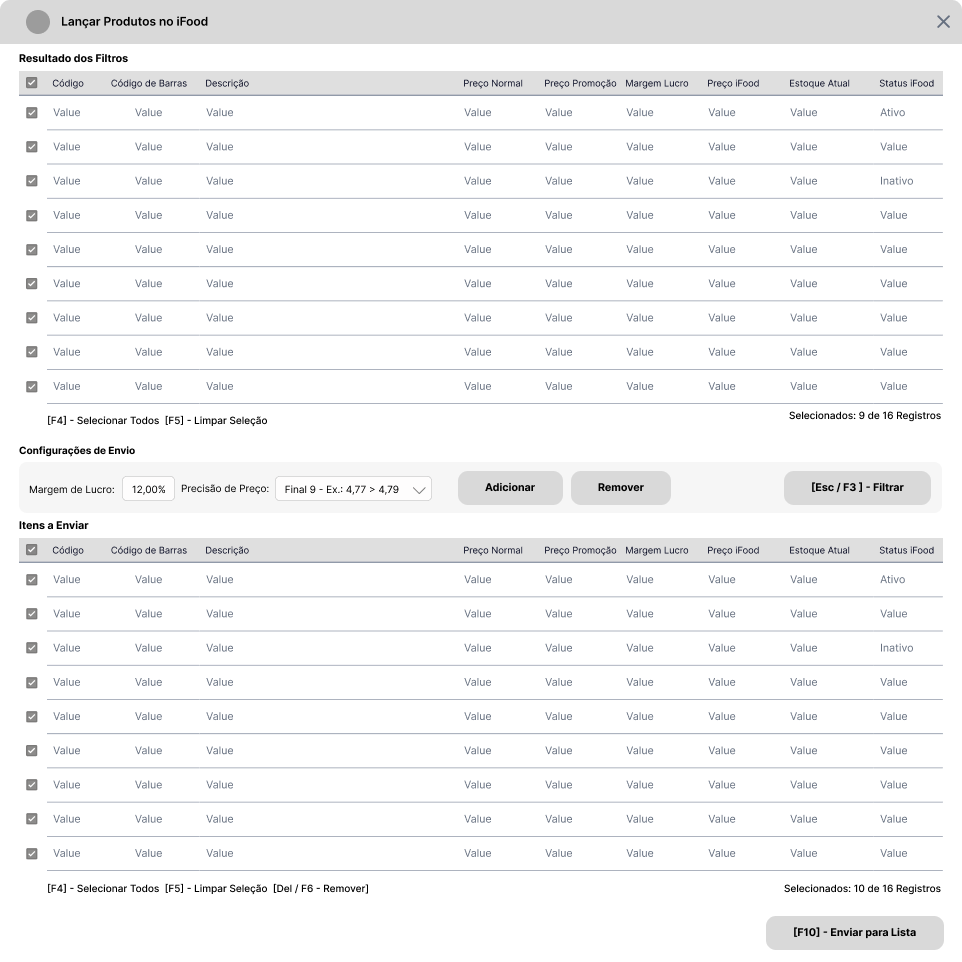
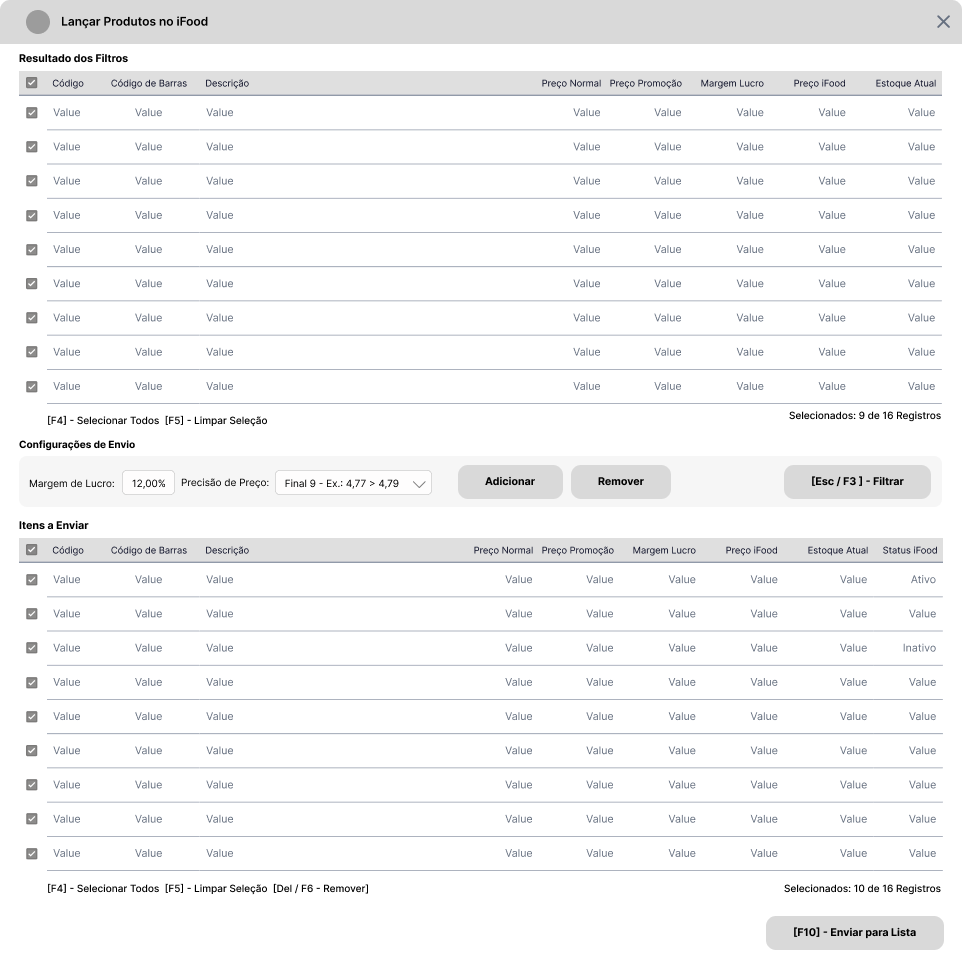
Update All

diff --git a/Documentation.md b/Documentation.md
@@ -107,13 +107,19 @@ Ao final da implementação dos recursos, o resultado será semelhante a imagem 
 
 ### Tela de Filtros e Inclusão de Produtos
 
-A Tela de filtros e inclusão deve ser ativada quando o Usuário clicar no Botão de Ação **[F10] - Lançar Produtos** e deve conter os elementos abaixo:
+A Tela de filtros e inclusão deve ser ativada quando o Usuário clicar no Botão de Ação **[F10] - Lançar Produtos**. Esta tela deve funcionar como uma "Montagem de Lista" e deve conter os elementos abaixo:
 
-1. Duas _Grids_, uma no topo da Tela que exibe o resultado dos filtros informados em [Filtros](#filtros-mag) e uma na parte de baixo da tela que exibe os Produtos selecionados para envio para Lista iFood.
-2. Entre as duas _Grids_, deve existir um grupo de funções chamado **Configurações de Envio** contendo os campos de Margem de Lucro e Precisão de Preço, funções básicas para Adicionar e Remover item da Lista, e um Botão de Ação para Acionar o filtro **[Esc / F3] - Filtrar**.
-3. Quando o Usuário clicar no botão para acionar o filtro, um painel pop-up com todos os [Filtros](#filtros-mag) deve ser exibido no topo da tela, sobrepondo a _Grid_ do topo da tela.
+1. Uma _Grid_ chamada "**Resultado dos Filtros**" que deve exibir o resultado dos filtros. 
+2. Os filtros devem ser exibidos quando o Usuário acionar a função **[Esc / F3] - Filtrar**. Esta [Tela de Filtros](#filtros-painel-pop-up-mag) deve ser um Pop-up sobre a *Grid* de **Resultados dos Filtros**.
+3. Abaixo do **Resultado dos Filtros** deve existir um grupo de funções chamado **Configurações de Envio** contendo os campos de **Margem de Lucro** e **Precisão de Preço**, funções básicas para **Adicionar e Remover** item da Lista, e um Botão Principal de Ação para o Pop-up de Filtro (**[Esc / F3] - Filtrar**).
+4. Abaixo de **Configurações de Envio** deve existir uma _Grid_ chamada **"Itens a Enviar"** que deve exibir os Produtos que foram selecionados para compor a **Lista de Produtos Vendidos no iFood**.
+5. Por fim, deve existir uma ação **"Enviar para Lista"** todos os Produtos selecionados na *Grid* **Itens a Enviar**.
 
-#### Filtros (Painel Pop-up) :mag:
+Após implementações dos recursos, o resultado final deve ser semelhante a imagem abaixo.
+
+![Protótipo de Tela](./Secondary-Screen.png)
+
+### Filtros (Painel Pop-up) :mag:
 
 | Filtro                                         | Descritivo                                                                                                   | Regras de Negócio                                                                                                                                                          |
 | :--------------------------------------------- | :----------------------------------------------------------------------------------------------------------- | :------------------------------------------------------------------------------------------------------------------------------------------------------------------------- |
@@ -132,15 +138,15 @@ A Tela de filtros e inclusão deve ser ativada quando o Usuário clicar no Botã
 
 :bulb: **Nota:** Após usuário acionar a função **[F3] - Filtrar** o "Pop-up" de filtros deve ser ocultado, e somente deve ser exibido se o Usuário acionar novamente a função **[Esc / F3] - Filtrar** presente ao centro da Tela.
 
-Após implementação da Tela de Filtros Pop-Up, o resultado final deve ser semelhante a:
+Após implementação da Tela de Filtros Pop-Up, o resultado final deve ser semelhante a imagem abaixo.
 
-![Pop-up Filtros](./Pop-up-Filters-Active.png)
+![Pop-up Filtros](./Pop-up.png)
 
 [Voltar ao Roadmap](#roadmap-rocket) | [Voltar ao Início](#introdução-wave)
 
 ### Resultado dos Filtros :open_file_folder:
 
-Uma _Grid_ deve exibir os Produtos resultantes dos filtros aplicados. As colunas e elementos necessários para exibição e controle são:
+Dos Produtos resultantes dos Filtros aplicados, devem ser exibidas as seguintes informações:
 
 | Campo             | Descritivo                                                         | Regra de Negócio                                                                                                |
 | :---------------- | :----------------------------------------------------------------- | :-------------------------------------------------------------------------------------------------------------- |
@@ -154,7 +160,7 @@ Uma _Grid_ deve exibir os Produtos resultantes dos filtros aplicados. As colunas
 | Preço iFood       | Preço de Venda para o iFood                                        | Preço calculado conforme a Margem Adicional parametrizada em [Margem de Lucro nos Parâmetros](#parâmetros-gear) |
 | Estoque Atual     | Estoque Atual do Produto a enviar                                  | Estoque Conforme parametrização do [Estoque Padrão e Tipo de Estoque](#parâmetros-gear) (Físico ou Presumido)   |
 
-Abaixo desta _Grid_, incluir legenda para as ações que podem ser executadas nos itens:
+Abaixo desta _Grid_ de Dados, incluir legenda para as ações que podem ser executadas para itens:
 
 | Elemento                                 | Descritivo                                                                       | Regra de Negócio                                |
 | :--------------------------------------- | :------------------------------------------------------------------------------- | :---------------------------------------------- |
@@ -164,7 +170,7 @@ Abaixo desta _Grid_, incluir legenda para as ações que podem ser executadas no
 
 [Voltar ao Roadmap](#roadmap-rocket) | [Voltar ao Início](#introdução-wave)
 
-### Ações de Tela
+### Configurações de Envio
 
 Após a _Grid_ dos itens resultantes dos filtros, incluir o grupo **Configurações de Envio**
 
